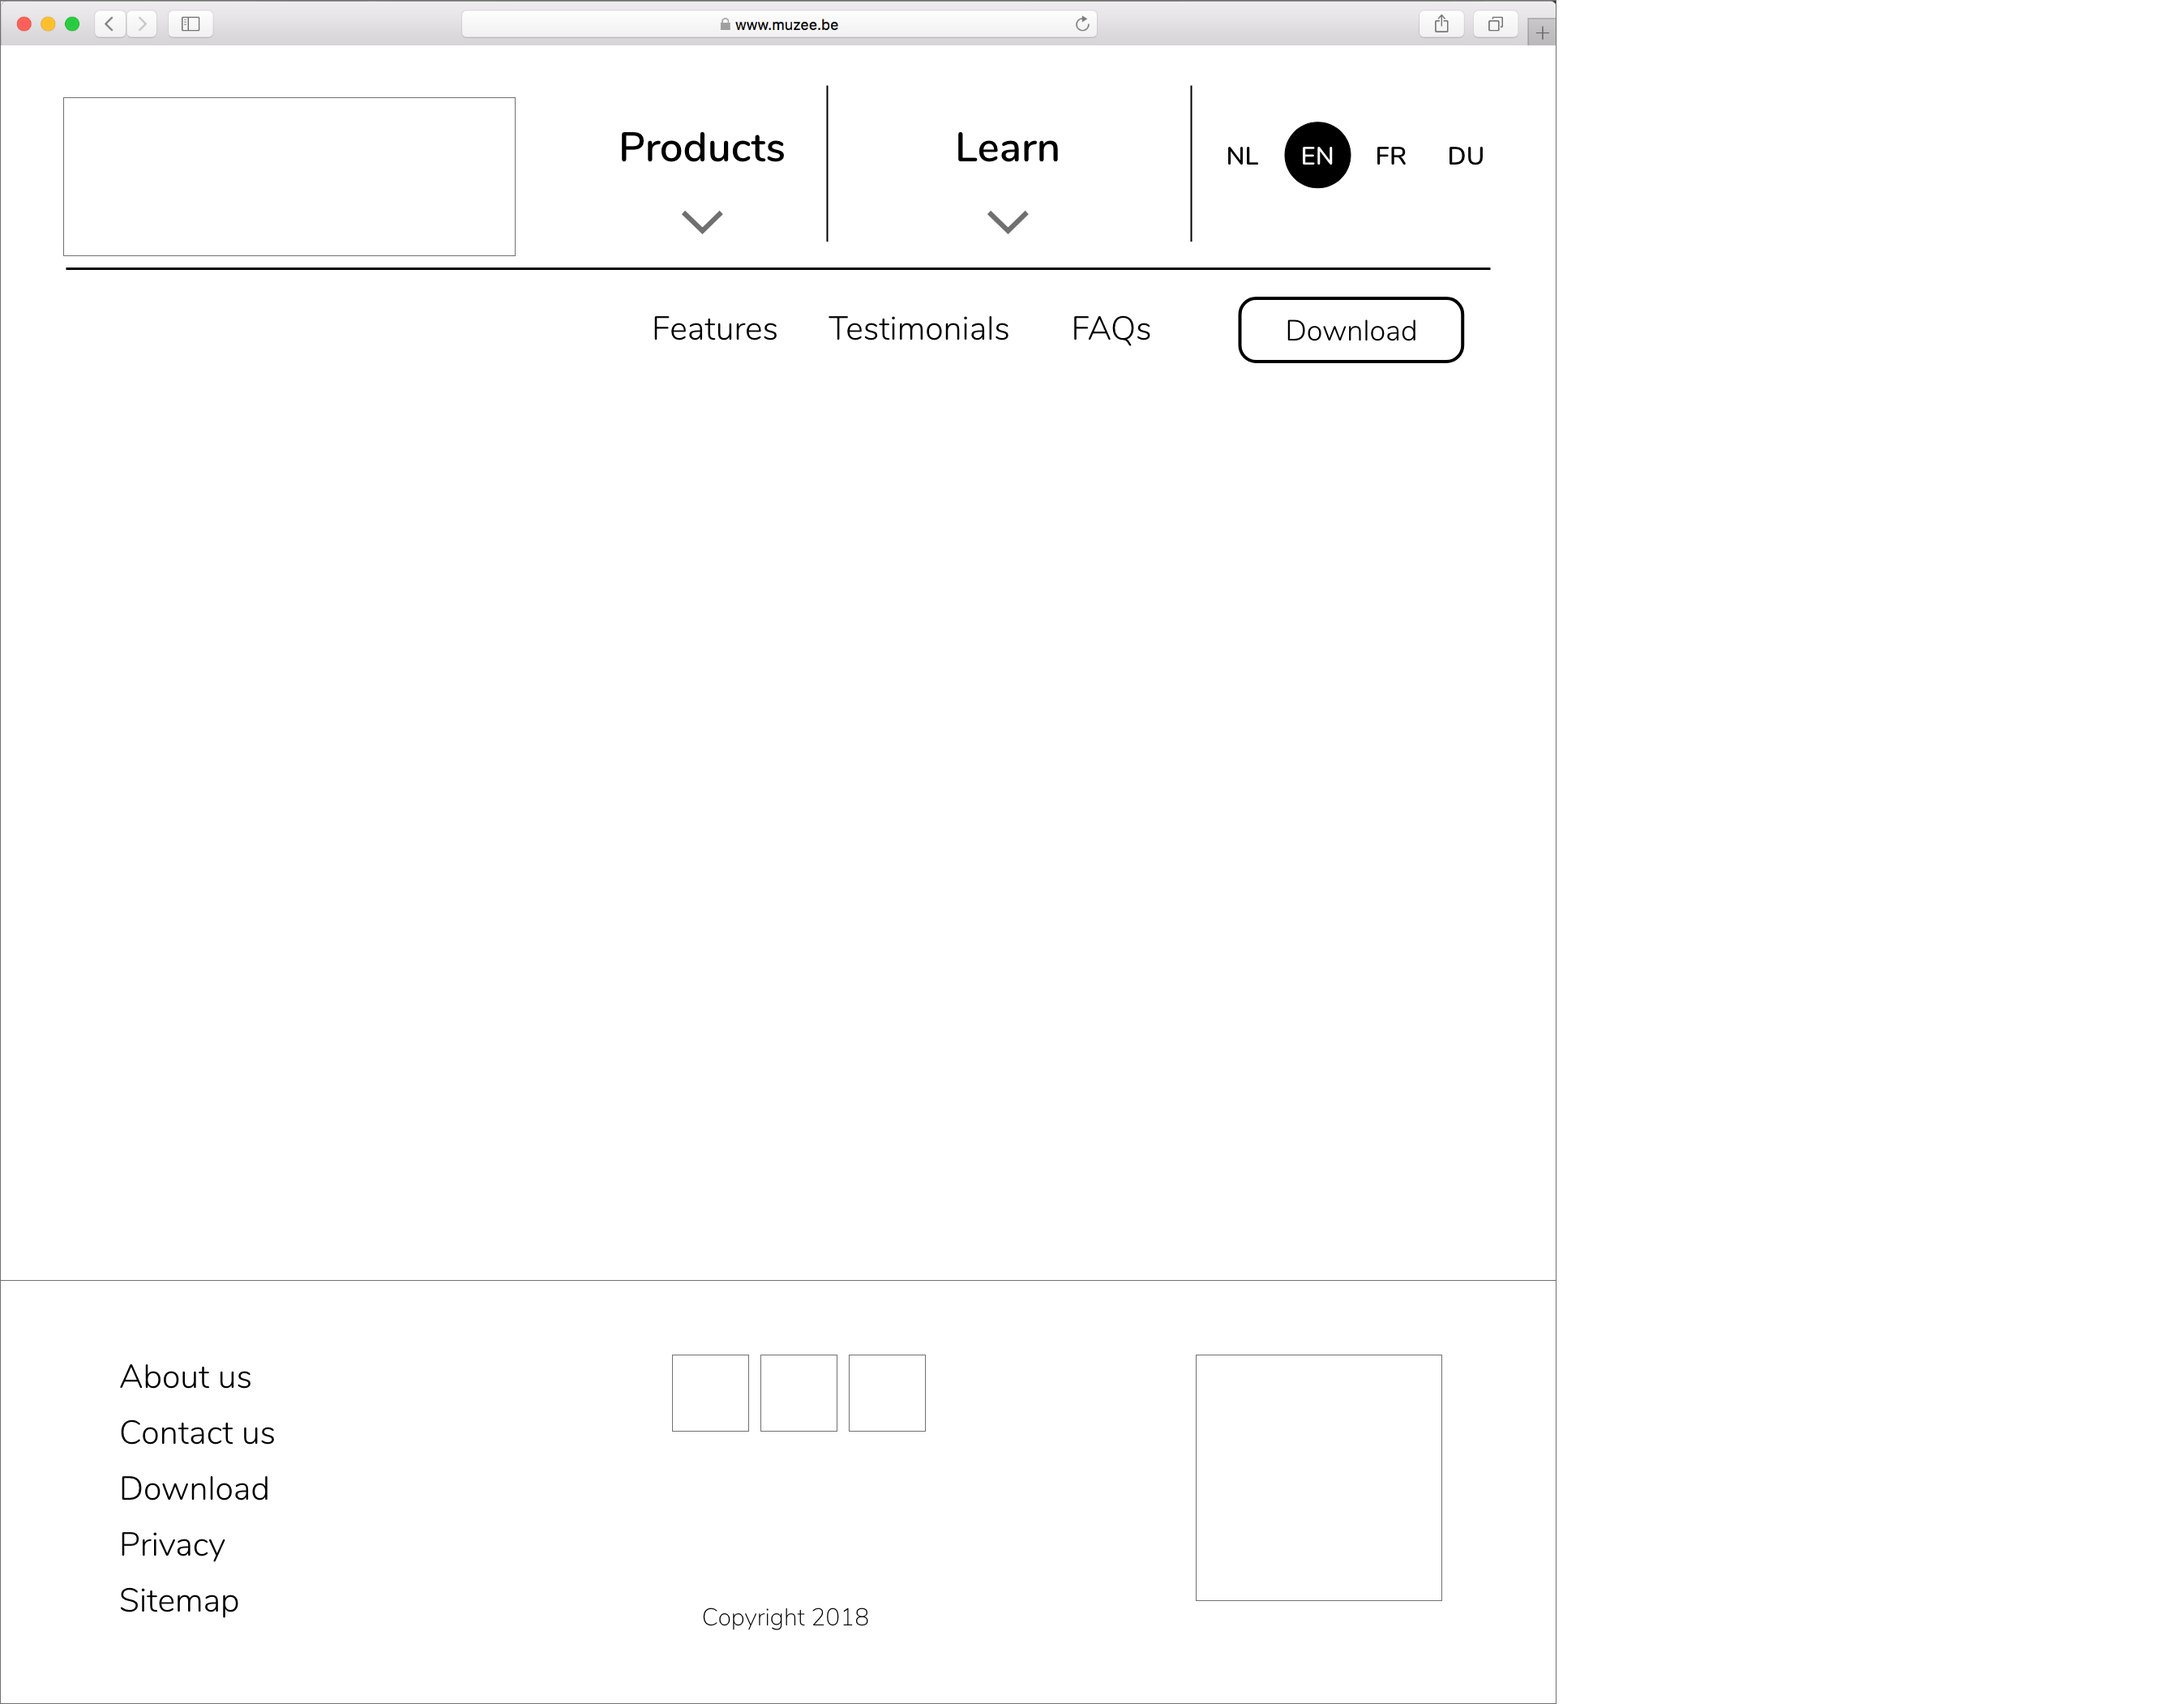
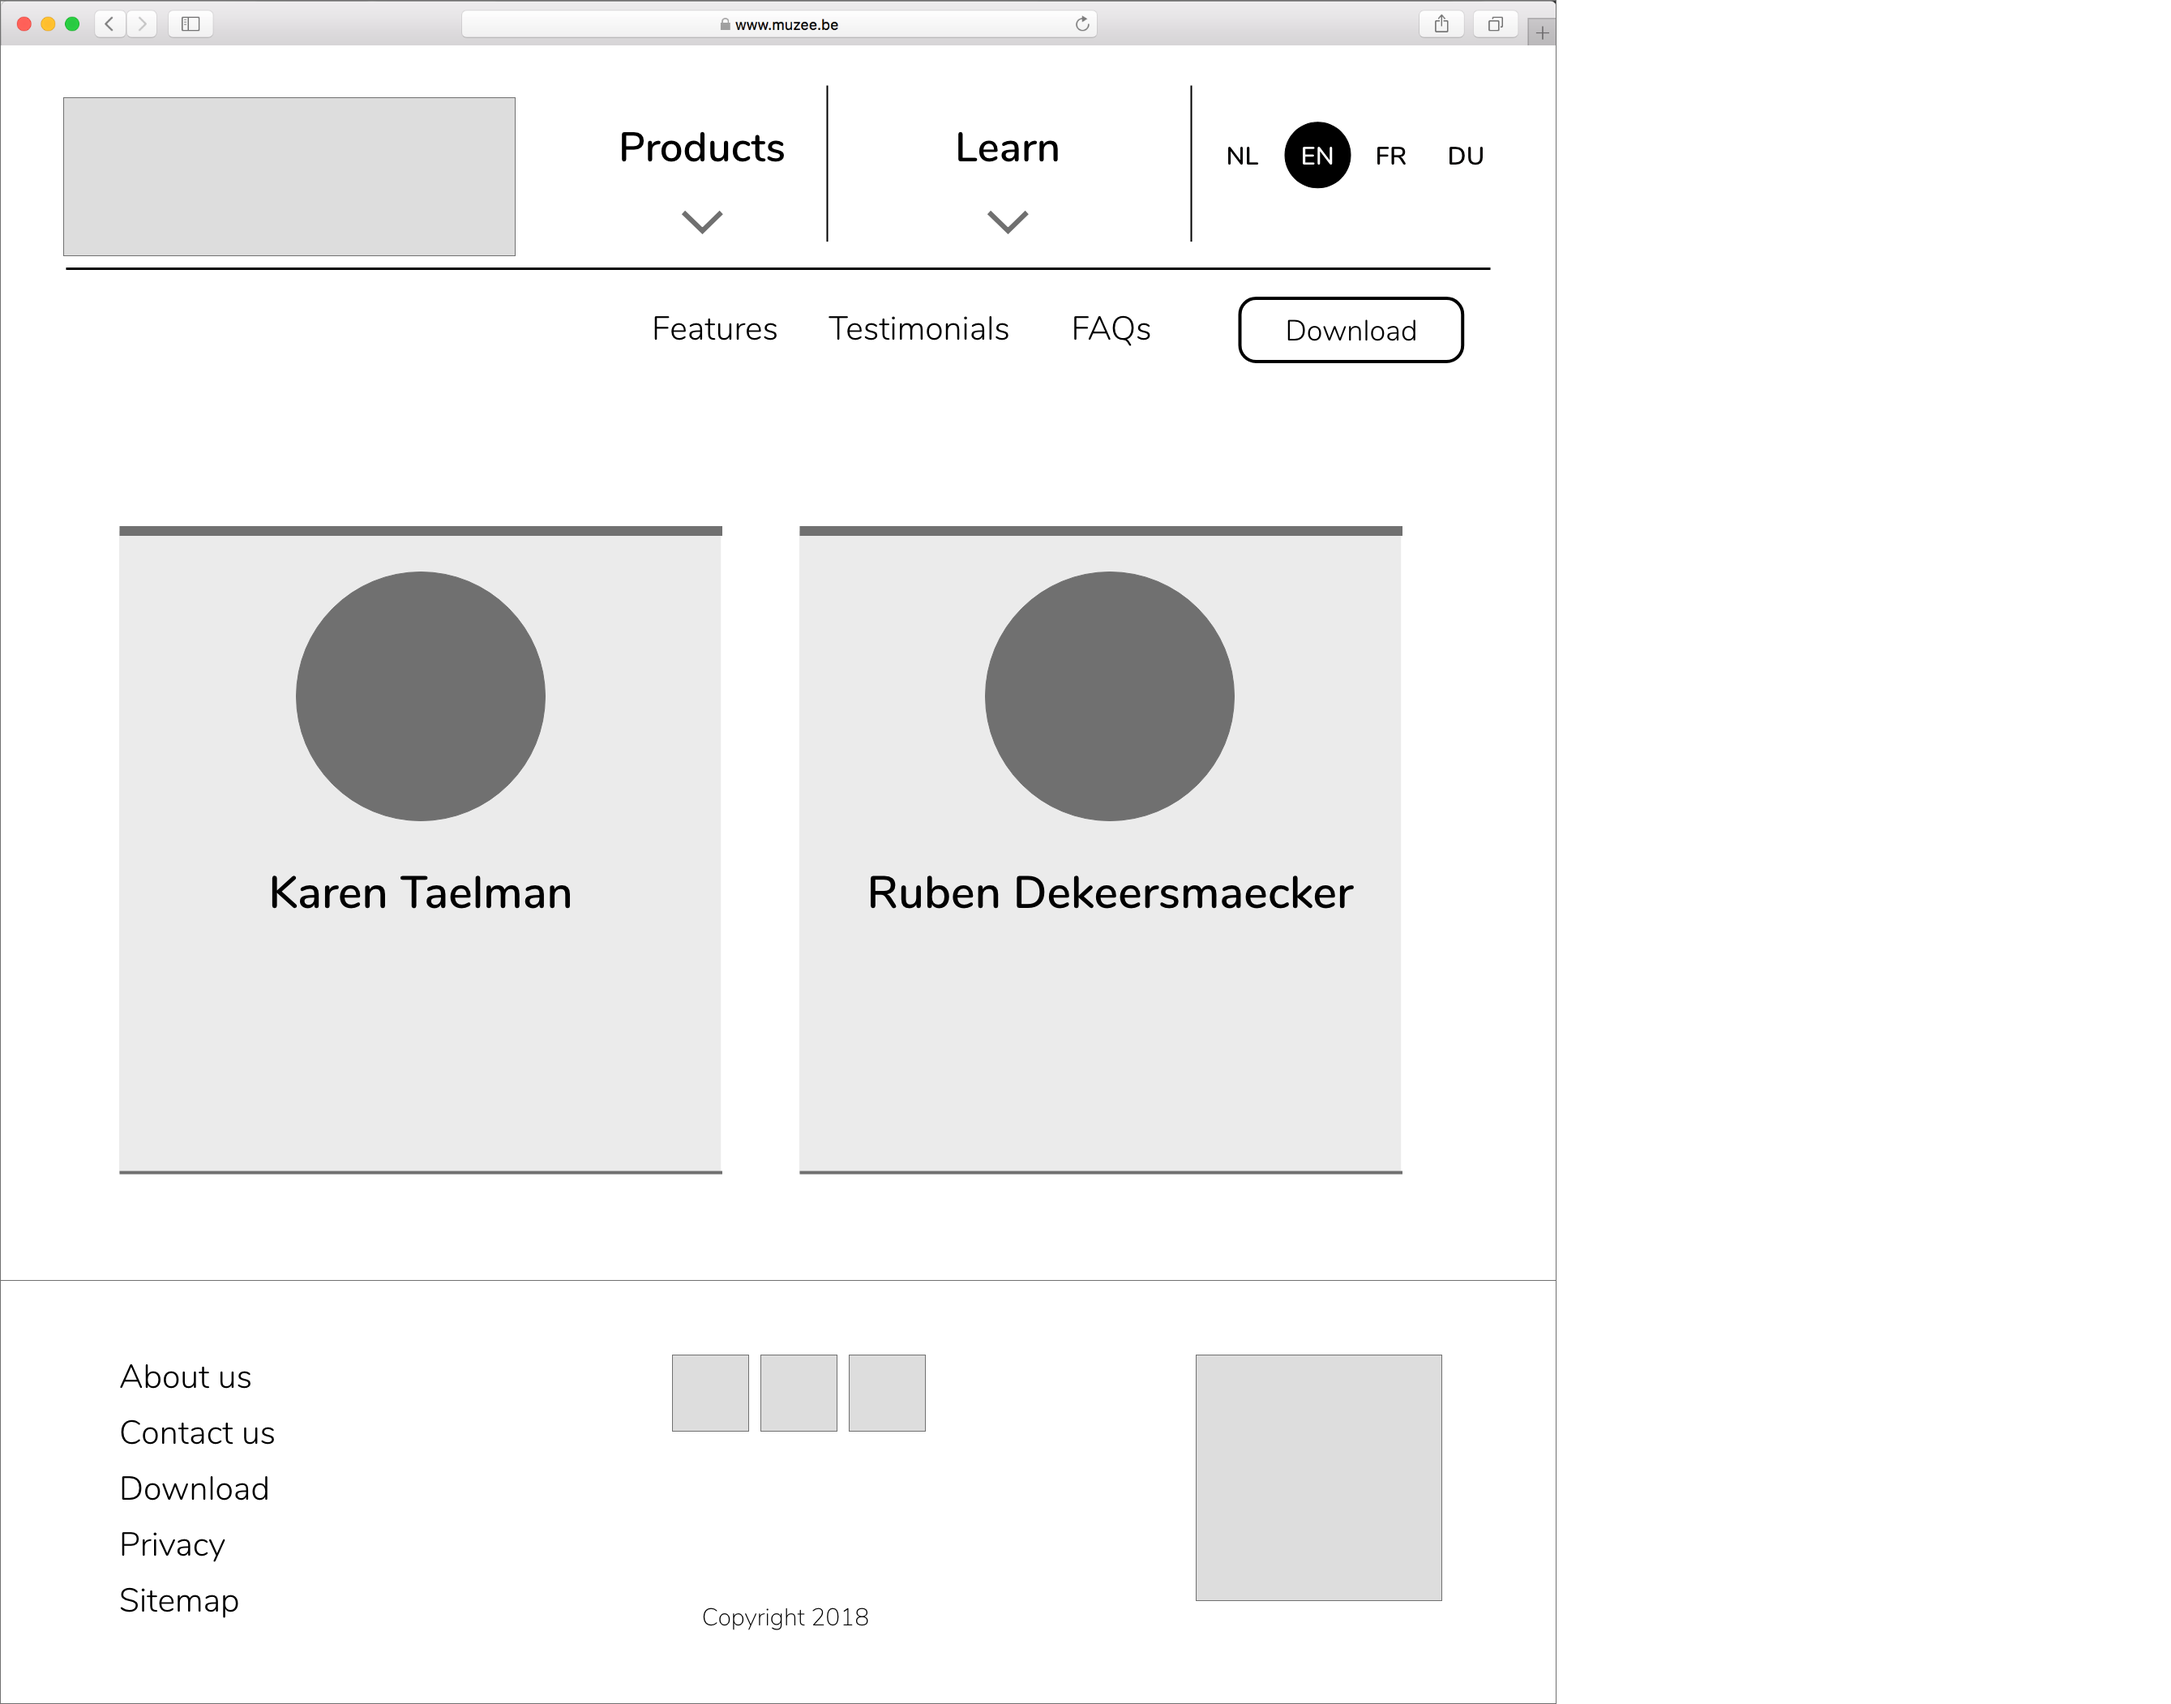
drieentwintigmei

diff --git a/docs/pages/2__define/2-0-0__analyse.md b/docs/pages/2__define/2-0-0__analyse.md
@@ -7,10 +7,12 @@ published: true
 title: Analyse
 ---
 
-Bespreek het concept ‘museumbezoek’ met minstens vijf mensen/bezoekers. Kijk wat die mensen beweegt om naar een museum te gaan, vraag waarom ze eventueel niet gaan en dergelijke. Vaak komen daar redenen naar boven die je als ontwerper nog niet kende.
+Wat ons het eerst opviel was dat er heel weinig reclame was voor het muzeum. af en toe zag je wel een poster hangen, maar je zag niet meteen dat het voor Mu.ZEE was. 
+Toen we binnen gingen kregen we een boekje over de kunstwerken binnen in het muzeum en een map voor plaatsen in de stad. Het ticket was geldig bij alle tentoonstellingen in Oostende. 
+Veel bezoeker waren wel verbaast hiervan, omdat er hiervan niet veel info op de site stad. Ook de site zelf was heel verwarend voor velen. Het was moeilijk om de prijzen te vinden. En er ook geen map op de site waardoor het makkelijker is voor de bezoekers om het muzeum te vinden. Omdat deze ook heel afgelegen ligt en niet meteen in het centrum. 
 
-**Getuigenissen**
-
+### Getuigenissen
+<br>
 "*we gaan graag op wandel en dit is de perfecte manier om dit te doen. Maar het is soms wat zoeken met een map op papier. Zoals vroeger.*"
 
 
@@ -19,19 +21,4 @@ Bespreek het concept ‘museumbezoek’ met minstens vijf mensen/bezoekers. Kijk
 
 "*heel leuk dat heel de stad bij de tentoonstelling is betrokken. Dit geeft je toch de kans om de stad wat beter te leren kennen.*"
 
-
-**Usefullness**
-
-Hoe nuttig is de app? Waarom maakt dit het leven van de gebruiker beter?
-
-**Usability**
-
-Is de app gemakkelijk te gebruiken?
-
-**Desirability**
-
-Zitten er elementen in de app die een emotionele reactie van de gebruiker uitlokken (illustratiestijl, tone of voice in dialoogvensters, chatbot, bepaald kleurgebruik, lettertypekeuze …)?
-
-**Credibility**
-
-Professionele uitstraling door technische perfectie, kwaliteit van de graphics … waardoor gebruikers vertrouwen hebben in wat je hen aanbiedt.
+<br>

diff --git a/docs/pages/3__design/4-2-0__website__wireframes.md b/docs/pages/3__design/4-2-0__website__wireframes.md
@@ -8,6 +8,25 @@ title: Wireframes
 ---
 
 
-![Smartwatch](http://127.0.0.1:4000/1718-nmd3-project/images/home – 1.png){:style="width: 80%"}
+![Website home](http://127.0.0.1:4000/1718-nmd3-project/images/home – 1.png){:style="width: 80%"}
 
-![Smartwatch](http://127.0.0.1:4000/1718-nmd3-project/images/home – 1.png){:style="width: 80%"}
+![Website overview](http://127.0.0.1:4000/1718-nmd3-project/images/product overview – 1.png){:style="width: 80%"}
+
+![website learn](http://127.0.0.1:4000/1718-nmd3-project/images/learn – 1.png){:style="width: 80%"}
+
+![Website features](http://127.0.0.1:4000/1718-nmd3-project/images/features – 1.png){:style="width: 80%"}
+
+
+![Website video](http://127.0.0.1:4000/1718-nmd3-project/images/watch video – 1.png){:style="width: 80%"}
+
+![website faq](http://127.0.0.1:4000/1718-nmd3-project/images/faqs – 1.png){:style="width: 80%"}
+
+![Website testimonials](http://127.0.0.1:4000/1718-nmd3-project/images/testimonials – 1.png){:style="width: 80%"}
+
+![Website download](http://127.0.0.1:4000/1718-nmd3-project/images/download – 1.png){:style="width: 80%"}
+
+![Website download](http://127.0.0.1:4000/1718-nmd3-project/images/Contact us – 1.png){:style="width: 80%"}
+
+![Website download](http://127.0.0.1:4000/1718-nmd3-project/images/about us – 1.png){:style="width: 80%"}
+
+

diff --git a/docs/pages/3__design/2-2-0__smartwatch-app__gebruikerstests.md b/docs/pages/3__design/2-2-0__smartwatch-app__gebruikerstests.md
@@ -10,7 +10,7 @@ title: Gebruikerstests
 Paper Prototype
 ---------------
 
-**Prototype 1**
+### prototype 1
 
 ![Smartwatch](http://127.0.0.1:4000/1718-nmd3-project/images/P1040341.JPG){:style="width: 100%"}
 
@@ -29,8 +29,19 @@ Paper Prototype
 ![Smartwatch](http://127.0.0.1:4000/1718-nmd3-project/images/P1040349.JPG){:style="width: 100%"}
 
 ![Smartwatch](http://127.0.0.1:4000/1718-nmd3-project/images/P1040350.JPG){:style="width: 100%"}
+<br>
 
-**prototype 2**
+**analyse**
+<br>
+Te weinig schermen. 
+De overgang van homescreen naar de app zelf was te vlug. 
+Misschien een pagina met de verschillende talen. De gebruiker kan deze aanpassen in de instellingen. 
+Dus ook een scherm waar er extra instellingen zijn die ze kunnen aanpassen. 
+We kunnen ook de app uitbereiden door niet alleen het muzeum erin te verwerken, maar heel de stad. Oostende heeft veel verschillende kunstroutes. En er worden verschillende app's gebruikt hiervoor. Waarom niet allemaal samenbrengen in 1 app. De gebruiker kan ook inloggen met eigen gegevens en de routes worden bijgehouden. Bepaalde routes zullen betalend zijn waardoor bepaalde gegevens gevraagd zullen worden. 
+
+
+<br>
+### prototype 2
 
 ![Smartwatch](http://127.0.0.1:4000/1718-nmd3-project/images/P1040351.JPG){:style="width: 100%"}
 

diff --git a/docs/pages/2__define/5-0-0__define__concept.md b/docs/pages/2__define/5-0-0__define__concept.md
@@ -9,7 +9,8 @@ title: Concept
 
 
 
-![video](http://127.0.0.1:4000/1718-nmd3-project/images/video-1520258597.mp4)
+![video](http://127.0.0.1:4000/1718-nmd3-project/images/video.mp4)
+{:style="width: 100%"}
 
 
 Het concept van onze app is om de de bezoeker een aangenamere bezoek te geven doorheen het museum. De bezoeker zal zelf gids spelen doorheen het bezoek. Men zal door middel van hun smartphone en/of smartwatch de kaart kunnen open van het museum en daarop zelf hun route bepalen waarbij ze op hun app kunnen zien voor welk kunstwerk ze staan. 

diff --git a/docs/pages/3__design/2-3-0__smartwatch-app__screen-designs.md b/docs/pages/3__design/2-3-0__smartwatch-app__screen-designs.md
@@ -7,4 +7,8 @@ published: true
 title: Screen Designs
 ---
 
-![Smartwatch](http://127.0.0.1:4000/1718-nmd3-project/images/wireflow-01.png){:style="width: 100%"}
+![Smartwatch](http://127.0.0.1:4000/1718-nmd3-project/images/smartwatch1.jpg){:style="width: 100%"}
+
+![Smartwatch](http://127.0.0.1:4000/1718-nmd3-project/images/smartwatch2.jpg){:style="width: 100%"}
+
+![Smartwatch](http://127.0.0.1:4000/1718-nmd3-project/images/smartwatch3.jpg){:style="width: 100%"}

diff --git a/docs/pages/5__deliver/1-2-0__timesheet__student-2.md b/docs/pages/5__deliver/1-2-0__timesheet__student-2.md
@@ -4,10 +4,12 @@ permalink: deliver/timesheets/student-2/
 published: true
 # Custom Page Variables
 # ─────────────────────
-title: Student 2
+title: Ruben De Keersmaecker
 ---
 {%- comment %}
 Vul de timesheet aan in het bestand `_data/timesheet-2.yml`
 {%- endcomment %}
+
+
 
 {% include timesheet.md timesheet=site.data.timesheet-2 %}

diff --git a/docs/pages/3__design/2-1-0__smartwatch-app__wireflow.md b/docs/pages/3__design/2-1-0__smartwatch-app__wireflow.md
@@ -7,8 +7,4 @@ published: true
 title: Wireflow
 ---
 
-
-![Smartwatch](http://127.0.0.1:4000/1718-nmd3-project/images/wireflow-01.png){:style="width: 100%"}
-
-
-![Smartwatch](http://127.0.0.1:4000/1718-nmd3-project/images/wireflow-01.png){:style="width: 100%"}
+![Smartwatch](http://127.0.0.1:4000/1718-nmd3-project/images/wireframes-03.png){:style="width: 100%"}

diff --git a/docs/pages/2__define/6-0-0__ideaboard.md b/docs/pages/2__define/6-0-0__ideaboard.md
@@ -11,4 +11,4 @@ title: Ideaboard
 
 ![ideabord2](http://127.0.0.1:4000/1718-nmd3-project/images/ideabord2.jpg){:style="width: 100%"}
 
-![ideabord3](http://127.0.0.1:4000/1718-nmd3-project/images/ideabord3.jpg){:style="width: 100%"}
+![ideabord3](http://127.0.0.1:4000/1718-nmd3-project/images/ideabord3.jpg){:style="width: 150%"}

diff --git a/docs/pages/5__deliver/1-1-0__timesheet__student-1.md b/docs/pages/5__deliver/1-1-0__timesheet__student-1.md
@@ -4,7 +4,7 @@ permalink: deliver/timesheets/student-1/
 published: true
 # Custom Page Variables
 # ─────────────────────
-title: Student 1
+title: Karen Taelman
 ---
 {%- comment %}
 Vul de timesheet aan in het bestand `_data/timesheet-1.yml`

diff --git a/docs/pages/3__design/2-0-0__smartwatch-app.md b/docs/pages/3__design/2-0-0__smartwatch-app.md
@@ -9,4 +9,4 @@ title: Smartwatch-app
 
 We zullen gebruik maken van de samsung gear s.
 
-![Smartwatch](http://127.0.0.1:4000/1718-nmd3-project/images/wireflow2.png){:style="width: 100%"}
+![Smartwatch](http://127.0.0.1:4000/1718-nmd3-project/images/wireflow2.png){:style="width: 80%"}

diff --git a/docs/pages/3__design/4-1-0__website__sitemap.md b/docs/pages/3__design/4-1-0__website__sitemap.md
@@ -7,5 +7,4 @@ published: true
 title: Sitemap
 ---
 
-
-![Smartwatch](http://127.0.0.1:4000/1718-nmd3-project/images/sitemap.png){:style="width: 100%"}
+![Sitemap](http://127.0.0.1:4000/1718-nmd3-project/images/sitemap.png){:style="width: 100%"}

diff --git a/docs/pages/3__design/5-1-0__ui-style-guide__typografie.md b/docs/pages/3__design/5-1-0__ui-style-guide__typografie.md
@@ -6,3 +6,5 @@ published: true
 # ─────────────────────
 title: Typografie
 ---
+
+
